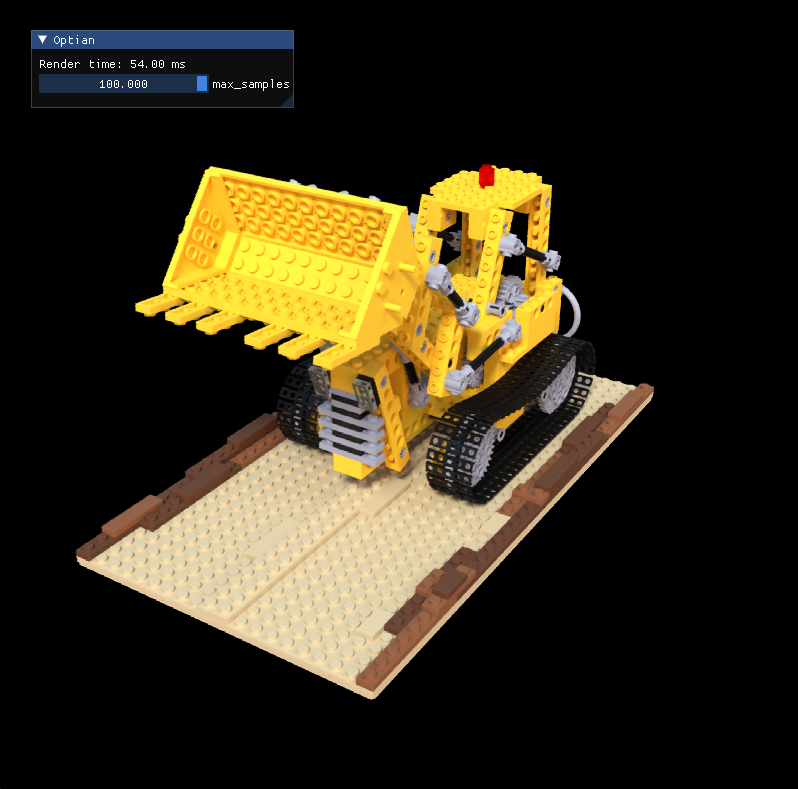
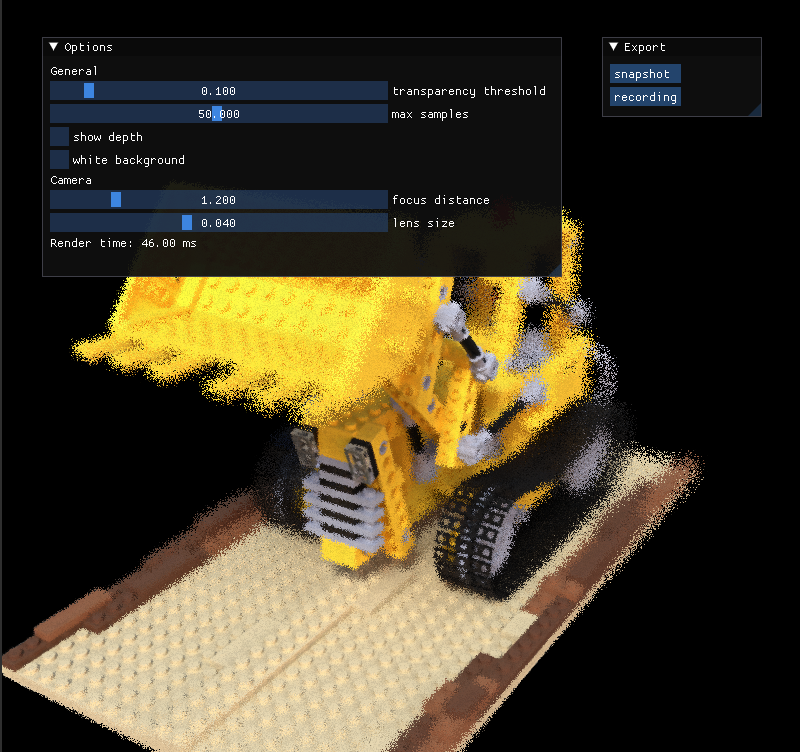
add DOF

diff --git a/taichi_ngp.py b/taichi_ngp.py
@@ -23,6 +23,7 @@ tf_vec3 = ti.types.vector(3, dtype=data_type)
 tf_vec32 = ti.types.vector(32, dtype=data_type)
 tf_vec1 = ti.types.vector(1, dtype=data_type)
 tf_vec2 = ti.types.vector(2, dtype=data_type)
+tf_mat1x3 = ti.types.matrix(1, 3, dtype=data_type)
 
 MAX_SAMPLES = 1024
 NEAR_DISTANCE = 0.01
@@ -82,6 +83,17 @@ def grid_pos2hash_index(indicator, pos_grid_local, resolution, map_size):
 #<----------------- hash table util code ----------------->
 
 @ti.func
+def random_in_unit_disk():
+    theta = 2.0 * np.pi * ti.random()
+    return ti.Vector([ti.sin(theta), ti.cos(theta)])
+
+@ti.func
+def random_normal():
+    x = ti.random() * 2. - 1.
+    y = ti.random() * 2. - 1.
+    return ti.Vector([x, y])
+
+@ti.func
 def dir_encode_func(dir_, input):
     dir = dir_/dir_.norm()
     x = dir[0]; y = dir[1]; z = dir[2]
@@ -113,6 +125,9 @@ class NGP_fw:
         self.xyz_min = -tf_vec3(scale, scale, scale)
         self.xyz_max = tf_vec3(scale, scale, scale)
         self.half_size = (self.xyz_max - self.xyz_min) / 2
+
+        self.noise_buffer = ti.Vector.field(2, dtype=data_type, shape=(self.N_rays))
+        self.gen_noise_buffer()
 
         self.rays_o = ti.Vector.field(n=3, dtype=data_type, shape=(self.N_rays))
         self.rays_d = ti.Vector.field(n=3, dtype=data_type, shape=(self.N_rays))
@@ -192,7 +207,7 @@ class NGP_fw:
         self.lookup = np.array([0.0, -1.0, 0.0])
 
     def hash_table_init(self):
-        print(f'GridEncoding: base_res={self.base_res} b={self.per_level_scales:.5f} F={2} max_params={self.max_params} L={self.level}')
+        print(f'GridEncoding: base resolution: {self.base_res}, log scale per level:{self.per_level_scales:.5f} feature numbers per level: {2} maximum parameters per level: {self.max_params} level: {self.level}')
         offset = 0
         for i in range(self.level):
             resolution = int(np.ceil(self.base_res * np.exp(i*np.log(self.per_level_scales)) - 1.0)) + 1
@@ -270,14 +285,31 @@ class NGP_fw:
 
         return tf_vec2(t1, t2)
 
+
     @ti.kernel
-    def ray_intersect(self):
+    def gen_noise_buffer(self):
+        for i in range(self.N_rays):
+            self.noise_buffer[i] = random_normal()
+
+    @ti.kernel
+    def ray_intersect(self, dist_to_focus: float, len_dis: float):
         ti.block_local(self.pose)
         for i in self.directions: 
             c2w = self.pose[None]
-            mat_result = self.directions[i] @ c2w[:, :3].transpose()
+            dir_ori = self.directions[i]
+            offset = len_dis*self.noise_buffer[i]
+            offset_m = tf_mat1x3(
+                [[
+                    offset[0],
+                    offset[1],
+                    0.0,
+                ]]
+            )
+            c2w_dir = c2w[:, :3].transpose()
+            offset_w = offset_m @ c2w_dir
+            mat_result = (dir_ori*dist_to_focus) @ c2w_dir - offset_w
             ray_d = tf_vec3(mat_result[0, 0], mat_result[0, 1],mat_result[0, 2])
-            ray_o = c2w[:, 3]
+            ray_o = c2w[:, 3] + tf_vec3(offset_w[0, 0], offset_w[0, 1],offset_w[0, 2])
             
             t1t2 = self._ray_aabb_intersec(ray_o, ray_d)
 
@@ -563,10 +595,10 @@ class NGP_fw:
         plt.imsave('taichi_ngp.png', (rgb_np*255).astype(np.uint8))
         plt.imsave('taichi_ngp_depth.png', depth2img(depth_np))
 
-    def render(self, max_samples: int, T_threshold: float) -> Tuple[float, int, int]:
+    def render(self, max_samples, T_threshold, dist_to_focus, len_dis) -> Tuple[float, int, int]:
         samples = 0
         self.reset()
-        self.ray_intersect()
+        self.ray_intersect(dist_to_focus, len_dis)
 
         while samples < max_samples:
             N_alive = self.counter[None]
@@ -650,6 +682,8 @@ class NGP_fw:
         show_depth = False
         frame = 0
         T_threshold = 1e-1
+        dist_to_focus = 1.2
+        len_dis=0.04
         self.init_cam()
         while window.running:
             pose = self.pose.to_numpy()
@@ -692,15 +726,21 @@ class NGP_fw:
             self.lookat += position_change
             self.pose.from_numpy(pose)
 
-            with gui.sub_window("Optian", 0.05, 0.05, 0.4, 0.2) as w:
-                w.text(f'Render time: {render_time:.2f} ms')
-                T_threshold = w.slider_float('T_threshold', T_threshold, 0., 1.)
-                max_samples_for_rendering = w.slider_float("max_samples", max_samples_for_rendering, 1, 100)
-                show_depth = w.checkbox("show_depth", show_depth)
-                white_bg = w.checkbox("white_bg", white_bg)
+            with gui.sub_window("Options", 0.05, 0.05, 0.65, 0.3) as w:
+                w.text(f'General')
+                T_threshold = w.slider_float('transparency threshold', T_threshold, 0., 1.)
+                max_samples_for_rendering = w.slider_float("max samples", max_samples_for_rendering, 1, 100)
+                show_depth = w.checkbox("show depth", show_depth)
+                white_bg = w.checkbox("white background", white_bg)
 
-            with gui.sub_window("Export", 0.05, 0.3, 0.4, 0.1) as w:
-                if gui.button("snapshot"):
+                w.text(f'Camera')
+                dist_to_focus = w.slider_float("focus distance", dist_to_focus, 0.8, 3.)
+                len_dis = w.slider_float('lens size', len_dis, 0., 0.1)
+
+                w.text(f'Render time: {render_time:.2f} ms')
+
+            with gui.sub_window("Export", 0.75, 0.05, 0.2, 0.1) as w:
+                if gui.button("snapshot "):
                     ti.tools.imwrite(self.render_buffer.to_numpy(), export_dir+'snap_shot.png')
                     print("save snapshot in export folder") 
                 if gui.button('recording'):
@@ -722,7 +762,9 @@ class NGP_fw:
             t = time.time()
             _, _, _ = self.render(
                 max_samples=max_samples_for_rendering, 
-                T_threshold=T_threshold
+                T_threshold=T_threshold, 
+                dist_to_focus=dist_to_focus,
+                len_dis=len_dis,
             )
 
             if not show_depth:
